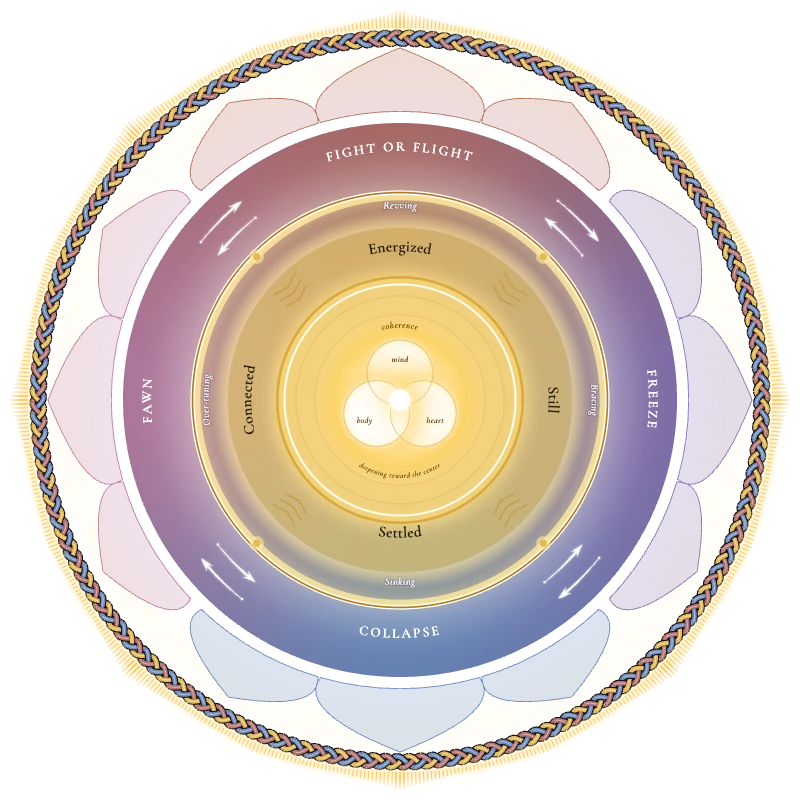
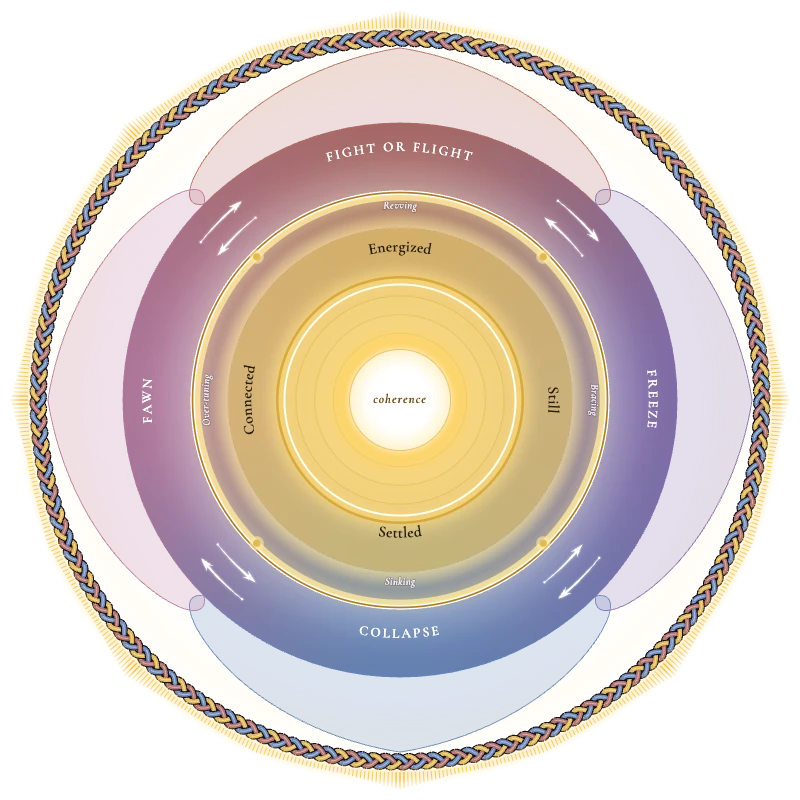
Window Mandala card: the wheel with one circle of coherence and four petals

Changed region(s): [[0.0625, 0.0625, 0.9375, 0.9375], [0.4062, 0.4062, 0.5938, 0.5625], [0.625, 0.625, 0.6562, 0.6562]]

diff --git a/index.html b/index.html
@@ -102,7 +102,7 @@ const MANDALAS=[
   {name:"The Window Mandala", href:"https://erinsarita.github.io/window-mandala/", img:"img/window.webp", imgDark:"img/window-dark.webp", themeKey:"wm-theme",
    eyebrow:"The nervous system and its rhythms", tint:["#A8771E","#E8C46C"],
    text:"A map of the nervous system: coherence of mind, heart, and body at the center, the window of capacity around it, and the ring of survival beyond, with two dials for where you live and where you are, and ways back home.",
-   alt:"Three overlapping circles of light at the center, ringed by the window of capacity, the four survival states, a ring of petals, and a braid with golden rays"}
+   alt:"A glowing circle of coherence at the center, ringed by the window of capacity, the four survival states, four petals, and a braid with golden rays"}
 ];
 const arrow=`<svg viewBox="0 0 16 16" fill="none" stroke="currentColor" stroke-width="1.8" stroke-linecap="round" stroke-linejoin="round" aria-hidden="true"><path d="M3 8h9M8.5 4.5 12 8l-3.5 3.5"/></svg>`;
 document.getElementById("grid").innerHTML=MANDALAS.map(m=>`<li><a class="card" href="${m.href}" style="--tint-l:${m.tint[0]};--tint-d:${m.tint[1]}">
